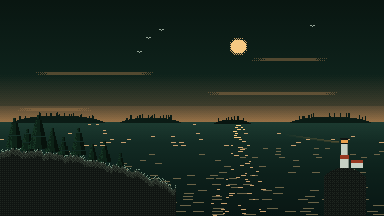
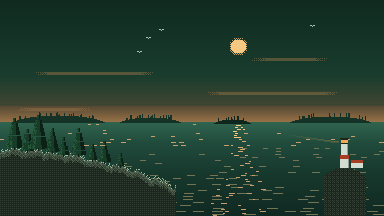
Desktop: brighter green, across both surfaces
The desk, taskbar, title bars, links and accents all lift, and the wallpaper
lifts with them — they are one surface and brightening only the chrome would
have split the scheme in two.

The wallpaper was lifted as a SET, keeping the intervals between neighbouring
values roughly where they were. What made an earlier pass read as static at
4x was the chop density and the spread between the sea's lightest and darkest
values, not the overall brightness — so raising the whole ramp costs nothing
there.

Two colours could not follow the rest, and both are contrast limits rather
than taste:

- --tb-a is the brightest the active title bar can go and still hold 4.95:1
  against white title text. The gradient's lower half sits at 8.67:1.
- --note-t is real body text in the TODO blocks. The first lift put it at
  3.75:1, below AA, so it settles at 4.51:1 — brighter than before, but less
  bright than everything around it.

--link lands at 5.2:1 on paper for the same reason. Amber stays the call to
action; a brighter green field makes it more necessary, not less.

Measured at 1440x900 and 390x780: title bar 4.95:1, taskbar 10.89:1, link
5.2:1, body 16.25:1. No h-scroll, no page errors, no 404s.

Claude-Session: https://claude.ai/code/session_01By56Lk2zo7oytyV7TbCWMw

diff --git a/home-os.html b/home-os.html
@@ -23,16 +23,17 @@
   /* FOREST GREEN. Every colour is named here — the first version had most of
      them hardcoded down the file, which made a palette change a hunt. Swapping
      the scheme again is now this block and nothing else. */
-  --desk:#1c3b2a;        /* the desktop itself */
-  --bar:#0d1d14;         /* taskbar */
-  --tb-a:#2f6647;        /* active title bar, top */
-  --tb-b:#1a3f2c;        /* active title bar, bottom */
-  --tb-x-a:#5f6b63;      /* unfocused title bar */
-  --tb-x-b:#48544c;
-  --sunk:#17352a;        /* recessed chrome in the bar */
-  --sunk-e:#2b5540;      /* its edge */
-  --bar-fg:#bcd6c6;      /* text on the bar */
-  --bar-hi:#479a6b;      /* focused tab edge */
+  --desk:#2d6144;        /* the desktop itself */
+  --bar:#143022;         /* taskbar */
+  --tb-a:#3a7d55;        /* active title bar, top — as bright as it can go and
+                            still hold 5:1 against white title text */
+  --tb-b:#215539;        /* active title bar, bottom */
+  --tb-x-a:#6d7c72;      /* unfocused title bar */
+  --tb-x-b:#55635a;
+  --sunk:#1e4a36;        /* recessed chrome in the bar */
+  --sunk-e:#3a7355;      /* its edge */
+  --bar-fg:#cfe7d8;      /* text on the bar */
+  --bar-hi:#5cc189;      /* focused tab edge */
   --chrome:#c7cfc9;      /* window furniture — grey with a green cast */
   --chrome-d:#8b948d;
   --bevel:#6e766f;       /* the dark side of every bevel */
@@ -40,14 +41,16 @@
   --ink:#0f1611;
   --mute:#4a554d;        /* secondary text */
   --mute-2:#78857c;
-  --link:#1f6340;
+  --link:#1c7247;        /* brightened only to 5.2:1 on --paper — links are
+                            body text and cannot chase the rest of the lift */
   --link-h:#a33b23;
-  --ac:#4fae7c;          /* play button, highlights */
+  --ac:#62c994;          /* play button, highlights */
   --hot:#f6ad55;         /* calls to action — amber, because it has to survive
                             a green field and nothing green would */
   --note:#e2e9e4;        /* the TODO blocks */
   --note-e:#949e97;
-  --note-t:#2a6b47;
+  --note-t:#2c7550;      /* the TODO headings are real text — 4.5:1 is the
+                            ceiling here, so this lifts less than the rest */
 }
 html,body{height:100%}
 body{

diff --git a/tools/make-wallpaper.py b/tools/make-wallpaper.py
@@ -32,31 +32,37 @@ DUSK = '--dusk' in sys.argv
 # static at 4x and fought the window chrome. Only the sun and the lighthouse
 # lamp are allowed to be bright, because they are the two things the eye
 # should find.
+# Values are LOW-CONTRAST but no longer dark. This is a wallpaper: windows sit
+# on top of it, so it has to read as scenery at a glance and then get out of
+# the way. What made an early pass look like static at 4x was the chop DENSITY
+# and the spread between the sea's lightest and darkest values — not the
+# overall brightness. So the whole set was lifted together, keeping the
+# intervals between neighbouring values roughly where they were.
 P = {
-    'sky_top':  (9, 22, 17),
-    'sky_mid':  (14, 34, 27),
-    'sky_low':  (23, 52, 40),
-    'sky_glow': (46, 80, 61),
-    'sun':      (198, 216, 186),
-    'far_isle': (11, 27, 21),
-    'mid_isle': (8, 21, 16),
-    'sea_far':  (28, 58, 48),
-    'sea_mid':  (18, 42, 35),
-    'sea_near': (12, 31, 26),
-    'sea_deep': (9, 23, 20),
-    'glint':    (58, 100, 82),
-    'foam':     (118, 146, 126),
-    'rock_dk':  (16, 21, 18),
-    'rock_md':  (30, 37, 31),
-    'rock_lt':  (50, 60, 50),
-    'tree_dk':  (7, 18, 12),
-    'tree_md':  (13, 34, 23),
-    'tree_lt':  (21, 51, 34),
-    'trunk':    (20, 17, 14),
-    'house':    (198, 208, 196),
-    'band':     (150, 56, 34),
-    'lamp':     (232, 160, 78),
-    'gull':     (150, 166, 152),
+    'sky_top':  (16, 42, 31),
+    'sky_mid':  (24, 60, 45),
+    'sky_low':  (38, 88, 66),
+    'sky_glow': (72, 128, 96),
+    'sun':      (208, 226, 198),
+    'far_isle': (20, 50, 37),
+    'mid_isle': (14, 38, 28),
+    'sea_far':  (48, 100, 79),
+    'sea_mid':  (32, 74, 59),
+    'sea_near': (22, 55, 44),
+    'sea_deep': (16, 41, 34),
+    'glint':    (90, 154, 122),
+    'foam':     (156, 188, 164),
+    'rock_dk':  (28, 37, 30),
+    'rock_md':  (50, 63, 51),
+    'rock_lt':  (80, 97, 79),
+    'tree_dk':  (12, 32, 21),
+    'tree_md':  (23, 60, 39),
+    'tree_lt':  (37, 88, 57),
+    'trunk':    (32, 27, 22),
+    'house':    (210, 220, 208),
+    'band':     (166, 62, 38),
+    'lamp':     (240, 170, 86),
+    'gull':     (176, 194, 178),
 }
 if DUSK:                            # warmer sky, same sea
     P['sky_low']  = (86, 74, 52)
